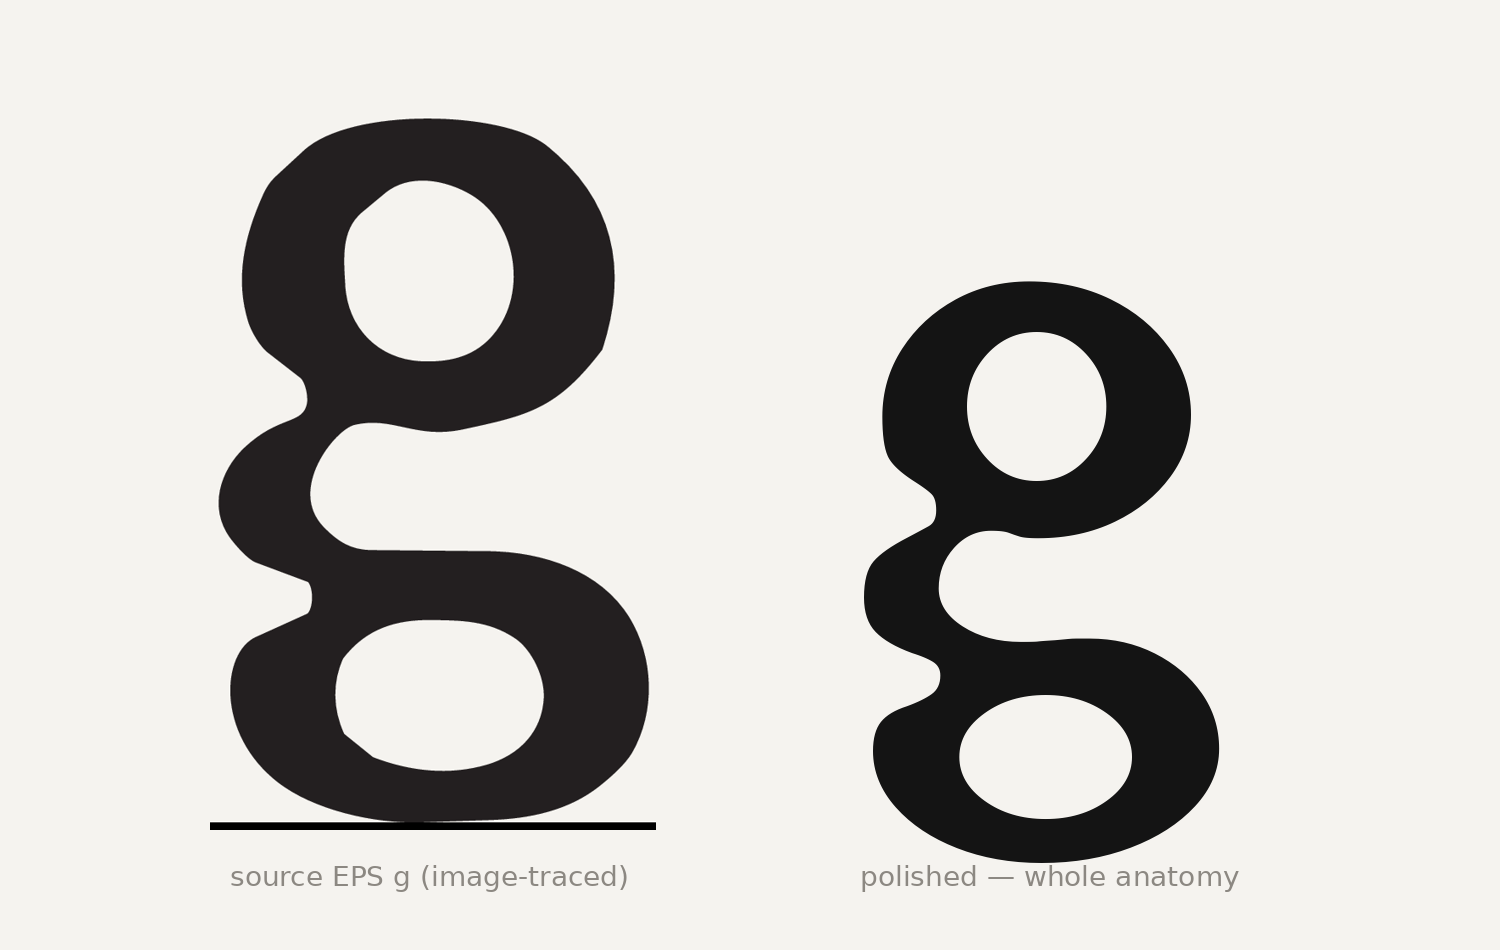
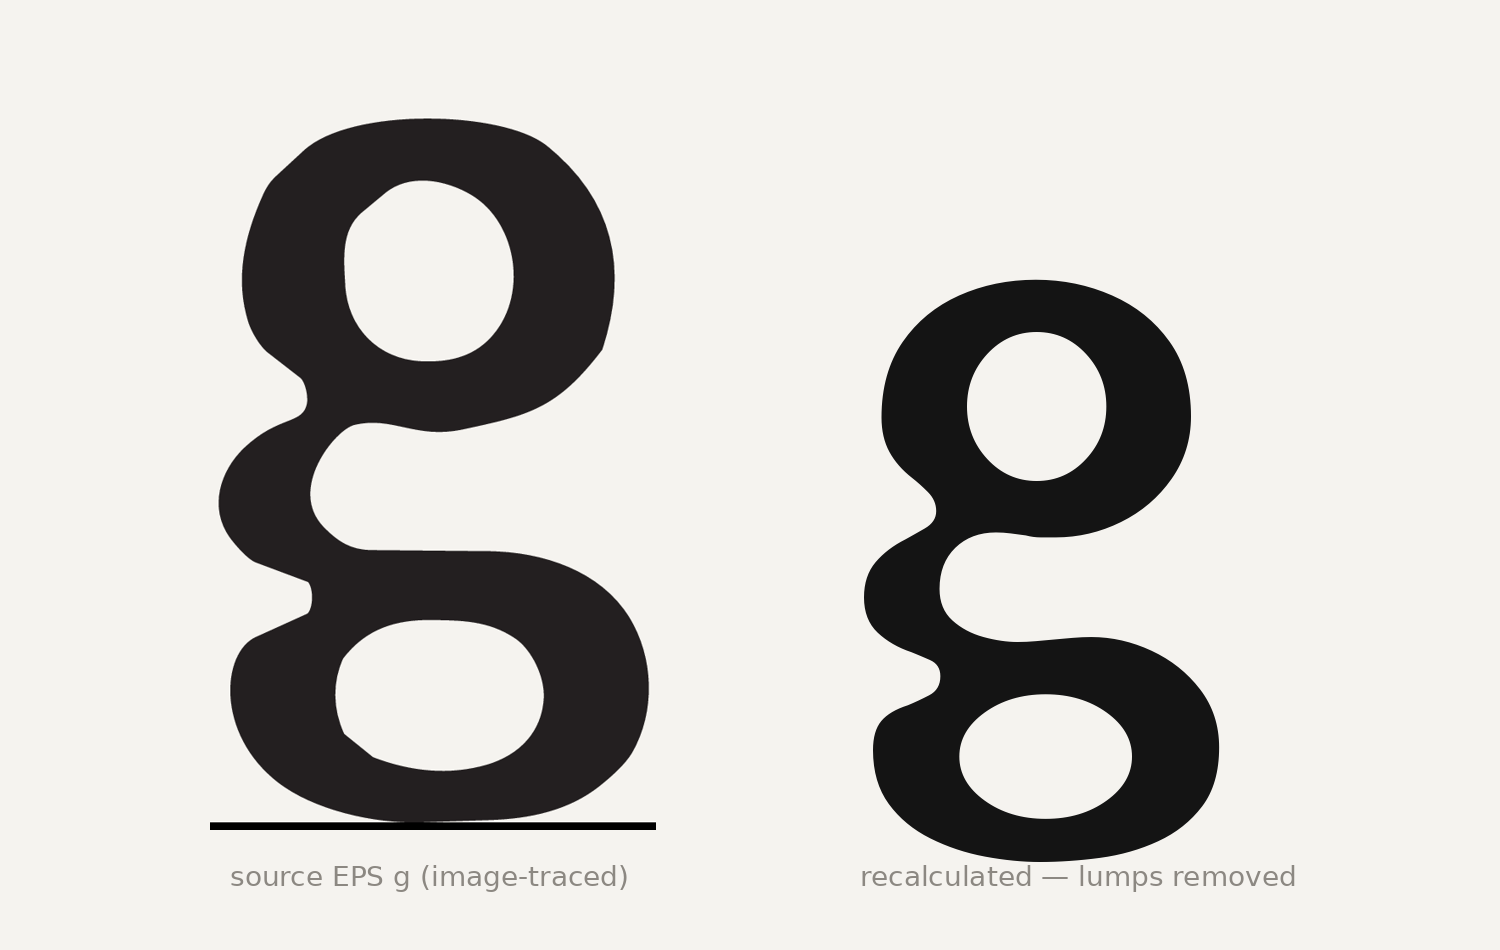
Recalculate the whole g: fit handles to the curve, kill the lumps
The lumps were from guessed handle lengths (kappa x projection) — fine for
a quarter-circle, wrong for the neck and flank S-curves, so every segment
bulged differently. Replace the guess with a least-squares fit: smooth the
underlying curve harder, then solve each bezier's two handle lengths to hug
that smooth arc (locked tangents, Schneider-style). Every segment now
follows the true curve, so the outline is lump-free end to end while
keeping the letter's character.

Claude-Session: https://claude.ai/code/session_01AufTLR6FUSxSFH28PcLESA

diff --git a/aqua-kit/engine/fit_extrema.py b/aqua-kit/engine/fit_extrema.py
@@ -51,14 +51,35 @@ def fit(contour, s, min_sep_t=0.012):
         if tan=='h':   u=unit(np.array([float(gx),0.0]))
         elif tan=='v': u=unit(np.array([0.0,float(gy)]))
         else:          u=unit(np.array([float(gx),float(gy)]))
-        A.append((np.array([float(px),float(py)]), u))
-    out=[['m',round(float(A[0][0][0]),2),round(float(A[0][0][1]),2)]]
+        A.append((float(tt), np.array([float(px),float(py)]), u))
+
+    # Least-squares fit each segment's two handle lengths to the smooth spline
+    # arc it spans (locked tangents) -> beziers HUG the smooth curve, no lumps.
+    out=[['m',round(float(A[0][1][0]),2),round(float(A[0][1][1]),2)]]
     n=len(A)
     for i in range(n):
-        p0,u0=A[i]; p1,u1=A[(i+1)%n]
-        delta=p1-p0
-        l0=K*abs(np.dot(delta,u0)); l1=K*abs(np.dot(delta,u1))
-        c1=p0+u0*l0; c2=p1-u1*l1
+        t0,p0,u0=A[i]; t1,p1,u1=A[(i+1)%n]
+        a=t0; b=t1 if t1>t0 else t1+1.0
+        ts=np.linspace(a,b,40)
+        Q=np.array(splev(np.mod(ts,1.0),tck)).T
+        # chord-length parameterisation of the samples
+        d=np.r_[0,np.cumsum(np.hypot(*np.diff(Q,axis=0).T))]
+        tau=d/d[-1] if d[-1]>0 else np.linspace(0,1,len(Q))
+        base=(np.outer((1-tau)**3+3*(1-tau)**2*tau,p0)
+              + np.outer(3*(1-tau)*tau**2+tau**3,p1))
+        av=(3*(1-tau)**2*tau)[:,None]*u0        # d/dalpha
+        bv=(-3*(1-tau)*tau**2)[:,None]*u1        # d/dbeta
+        r=Q-base
+        Aaa=np.sum(av*av); Aab=np.sum(av*bv); Abb=np.sum(bv*bv)
+        Ba=np.sum(av*r); Bb=np.sum(bv*r)
+        det=Aaa*Abb-Aab*Aab
+        if abs(det)<1e-9:
+            L=np.hypot(*(p1-p0)); alpha=beta=K*L
+        else:
+            alpha=(Ba*Abb-Bb*Aab)/det; beta=(Aaa*Bb-Aab*Ba)/det
+        L=np.hypot(*(p1-p0))
+        alpha=float(np.clip(alpha,0.05*L,1.2*L)); beta=float(np.clip(beta,0.05*L,1.2*L))
+        c1=p0+u0*alpha; c2=p1-u1*beta
         out.append(['c',round(float(c1[0]),2),round(float(c1[1]),2),
                     round(float(c2[0]),2),round(float(c2[1]),2),
                     round(float(p1[0]),2),round(float(p1[1]),2)])

diff --git a/aqua-kit/engine/polish_g.py b/aqua-kit/engine/polish_g.py
@@ -45,7 +45,7 @@ def signed_area(A):
 contours = json.load(open("g_real_outline.json"))
 outer = max(contours, key=len)
 
-outer_c, n_anchors = fit(outer, s=350.0)
+outer_c, n_anchors = fit(outer, s=900.0)
 A = np.array([[s[-2], s[-1]] for s in outer_c])
 cc = not (signed_area(A) > 0)                  # counters wind opposite outer
 
